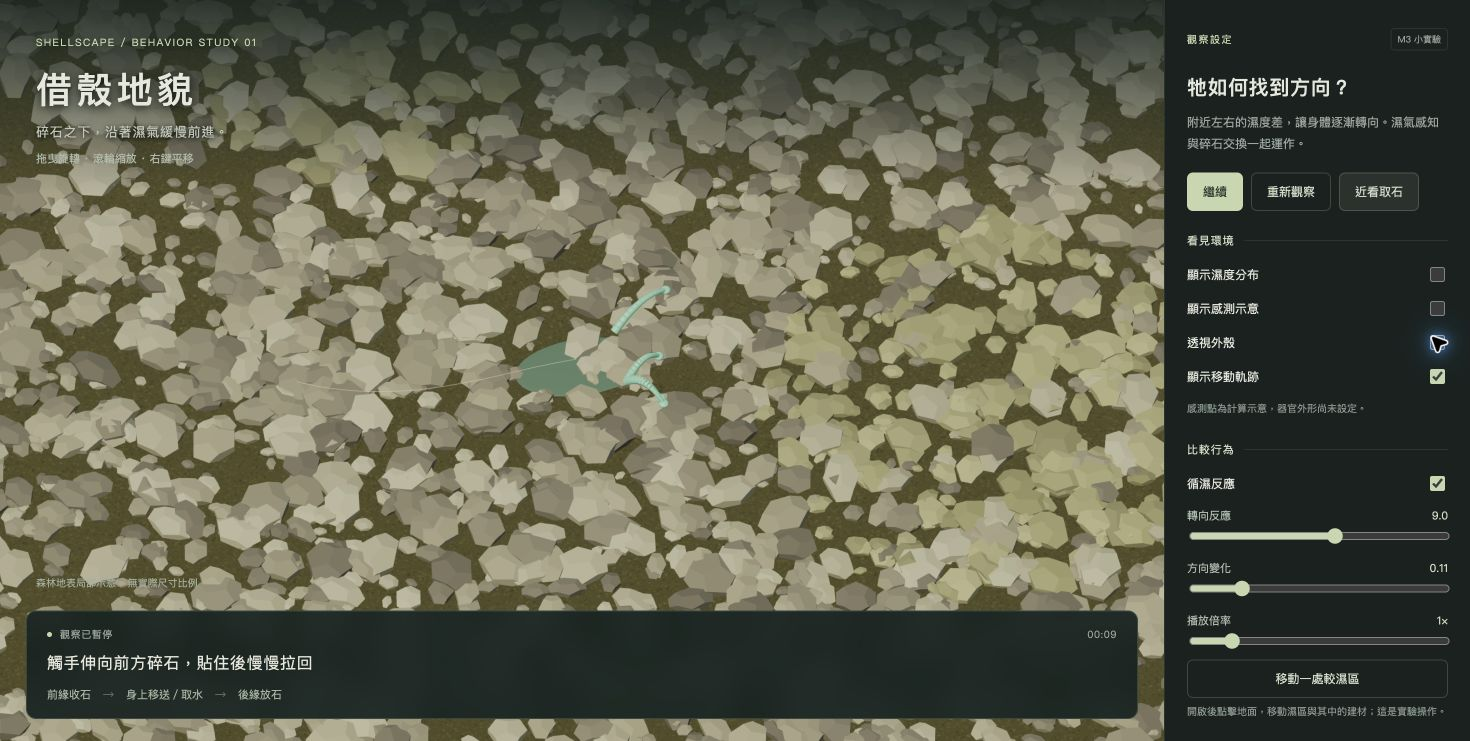
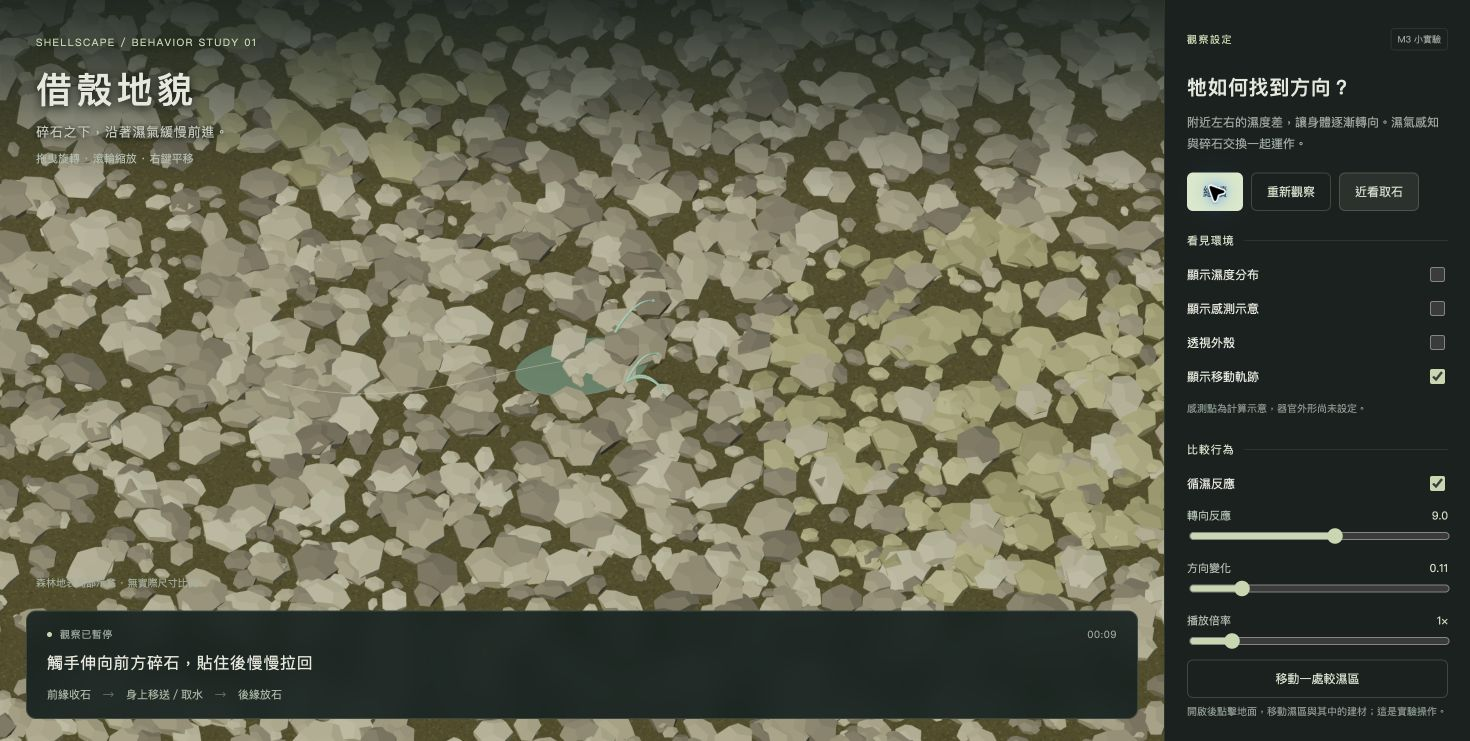
style: reduce pickup tentacle thickness to one third

diff --git a/m3-creature/notes.md b/m3-creature/notes.md
@@ -2,6 +2,13 @@
 
 同日多次討論按最新進度置頂；較早段落的「尚未實作」等狀態是當時紀錄，請以最新小實驗段落為準。
 
+## 2026-10-22｜取石觸手縮細為三分之一
+
+- Luna 希望接近初代版本的細絲外觀，指定約為本次粗觸手的三分之一。
+- 觸手基部半徑由 0.048 改為 0.016，末端接觸點各方向尺寸也縮為三分之一；維持漸細比例、長度、數量與伸展／取石動作。
+- Chrome 已實際檢視縮細後的觸手與正常顯示的本體，更新截圖；語法與差異檢查通過。
+- AI：Codex；依 Luna 明確尺寸回饋調整外觀，未更動感知或生理設定，未代寫反思。
+
 ## 2026-10-22｜修正身體只剩觸手的顯示問題
 
 - Luna 回報加密碎石與觸手動作後，身體不見，只看得到觸手。
